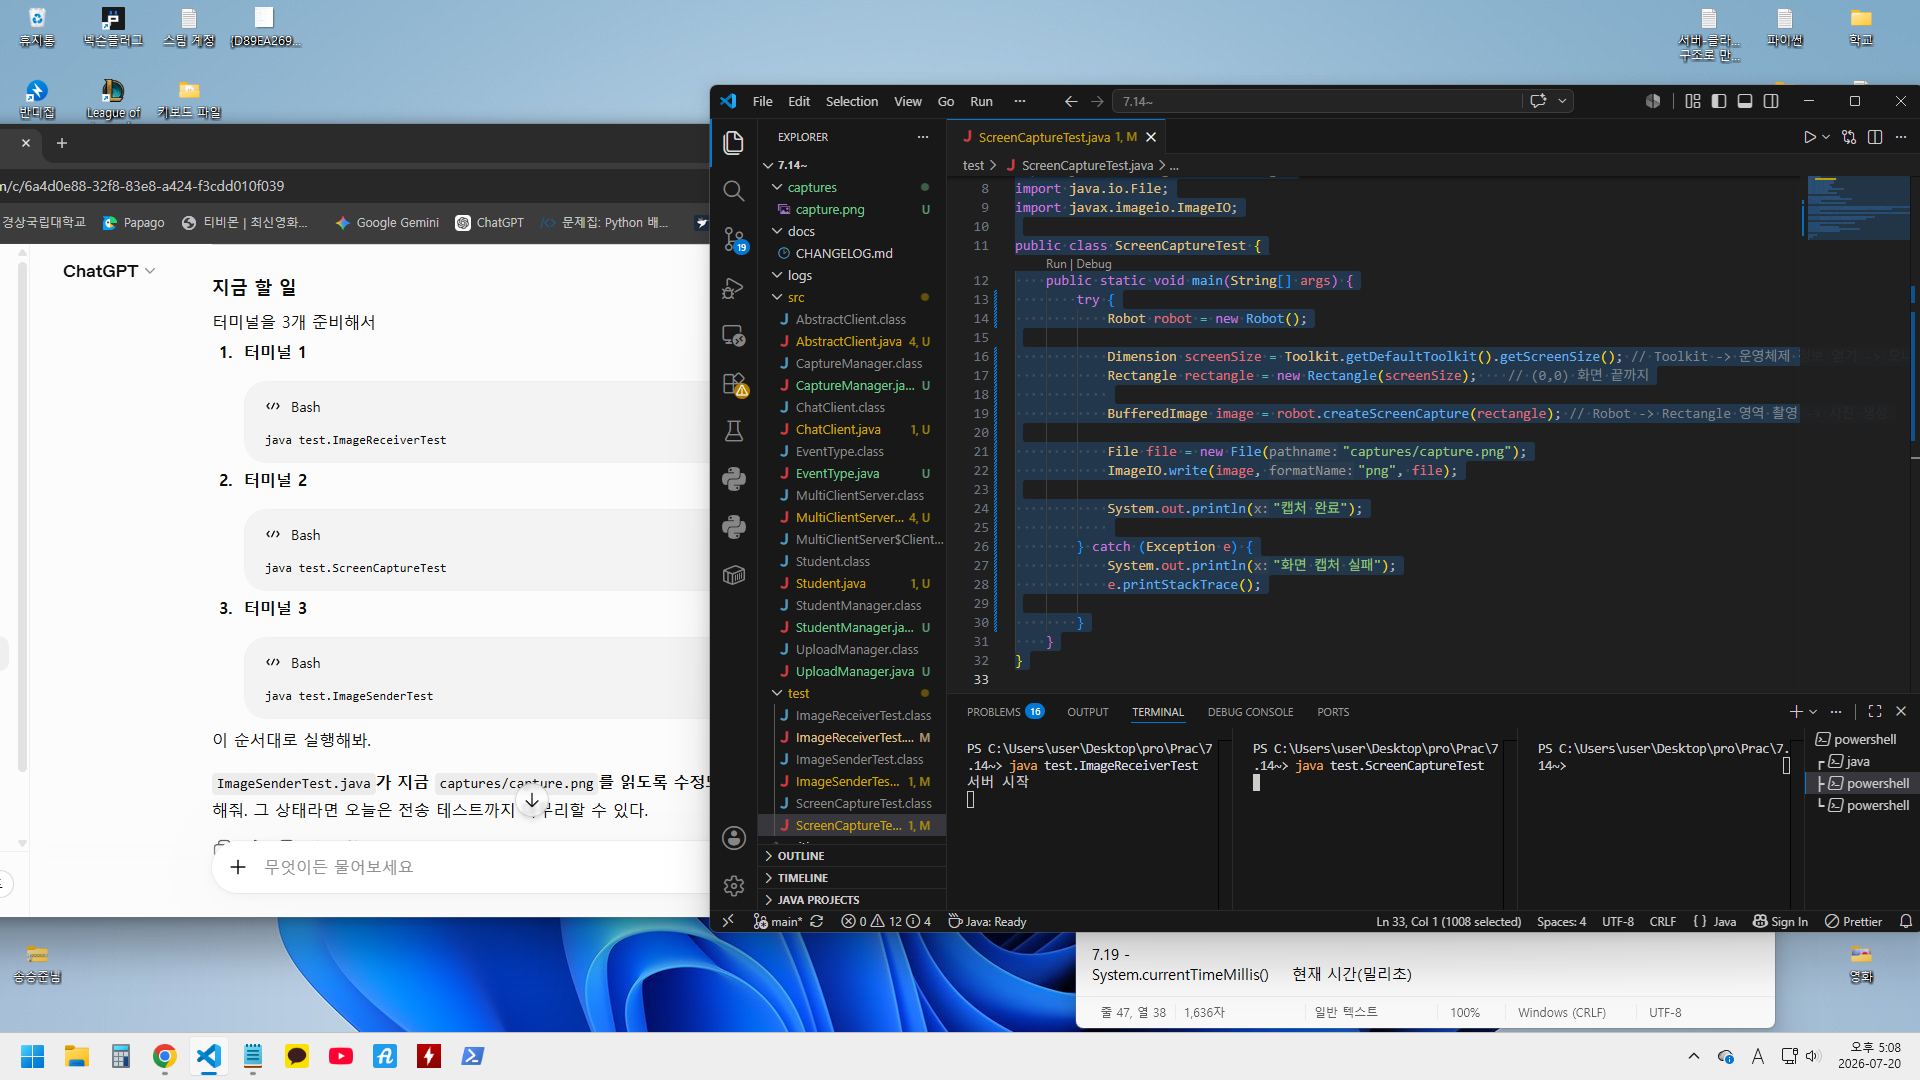
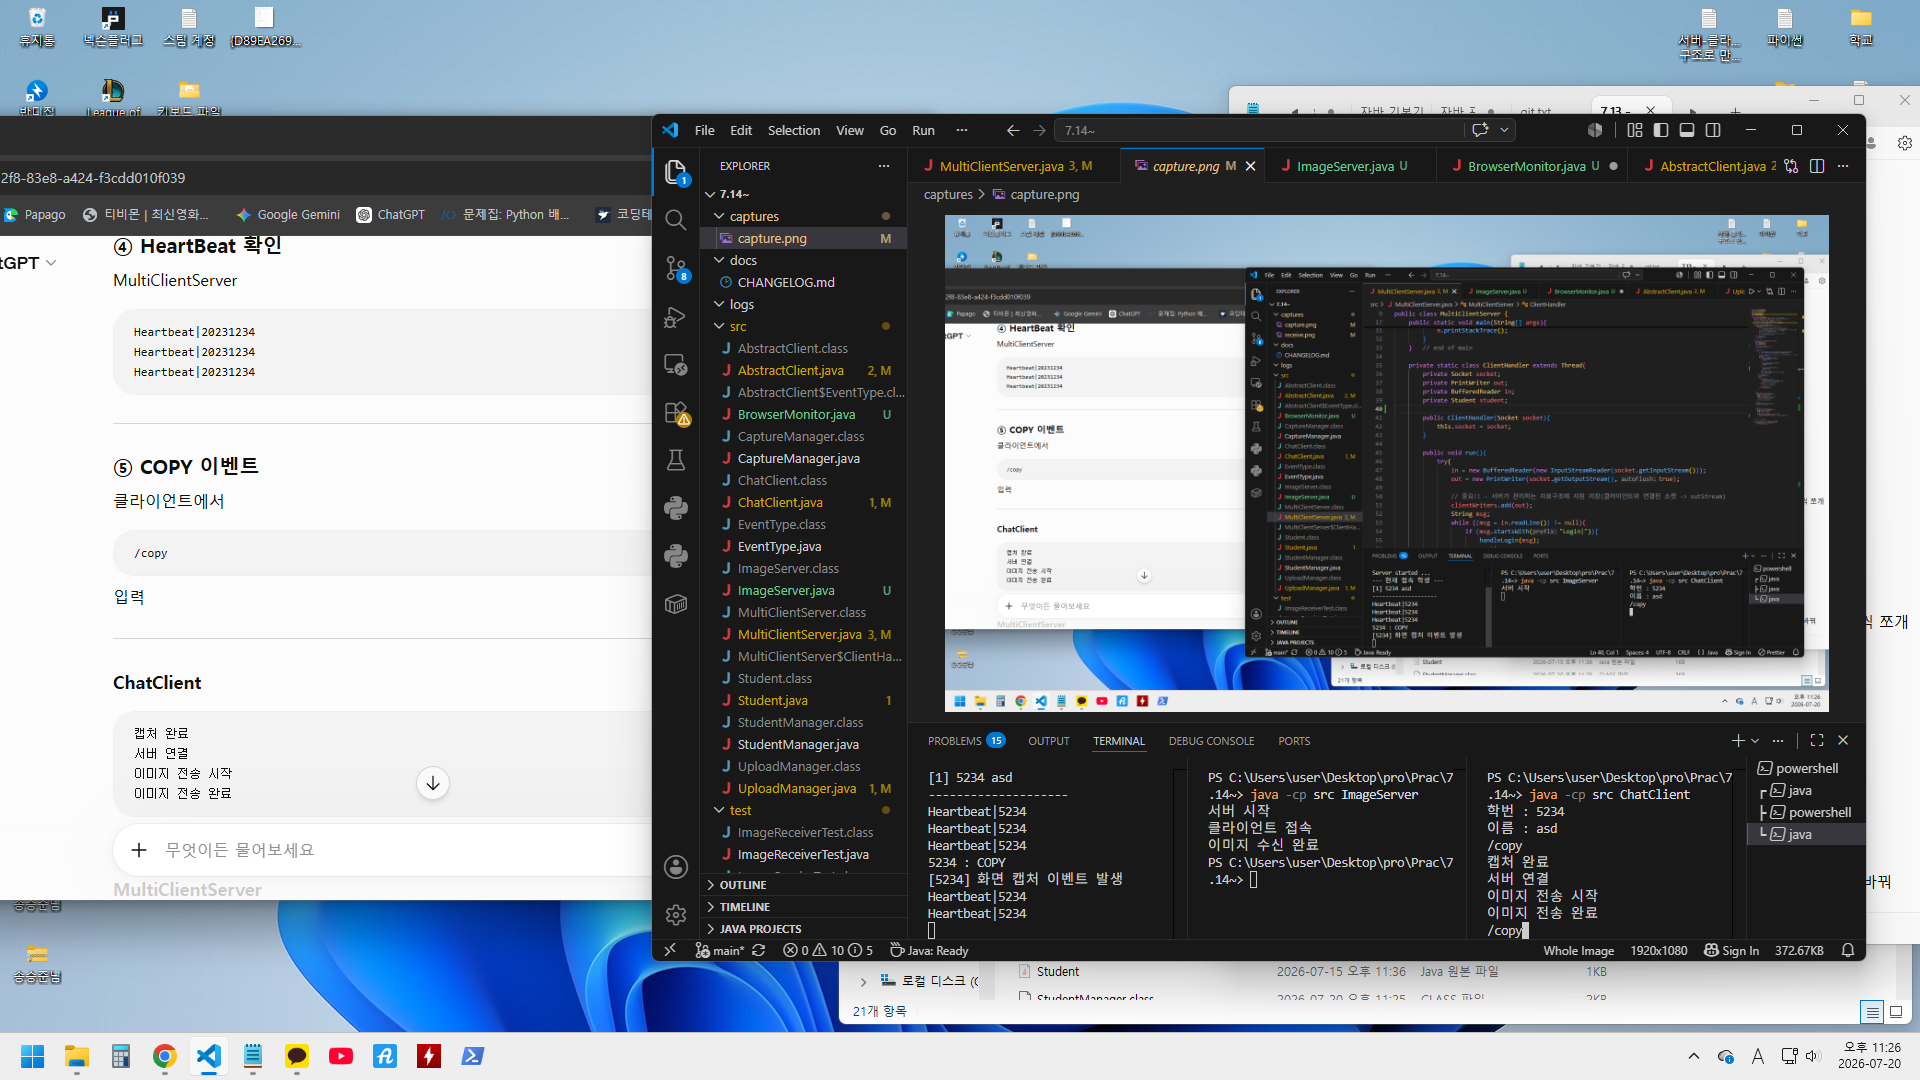
Event, Capture, Upload, ImageServer 구현

diff --git a/src/AbstractClient.java b/src/AbstractClient.java
@@ -1,4 +1,5 @@
 import java.io.BufferedReader;
+import java.io.File;
 import java.io.IOException;
 import java.io.InputStreamReader;
 import java.io.PrintWriter;
@@ -66,8 +67,13 @@ public class AbstractClient {
         return new Thread(() -> {        
             try {
                 String msg;     
-                while ((msg = keyboardReader.readLine()) != null) {     
-                    socketWriter.println("[" + student.getName() + "] : " + msg);       
+                while ((msg = keyboardReader.readLine()) != null) {  
+                    if (msg.equals("/copy")){
+                        sendEvent(EventType.COPY);
+                        continue;
+                    }   
+
+                    socketWriter.println("[" + student.getName() + "] : " + msg );
                 }
             } catch (IOException e){
                 e.printStackTrace();       
@@ -95,7 +101,7 @@ public class AbstractClient {
                 while (true) {
 
                     socketWriter.println(
-                        "HEARTBEAT|" + student.getStudentId()
+                        "Heartbeat|" + student.getStudentId()
                     );
 
                     Thread.sleep(5000);
@@ -126,17 +132,30 @@ public class AbstractClient {
         socketWriter.println(loginMessage);     
     }
 
-    private void sendLoginMesssage(){
-        socketWriter.println(("Login|" + student.getStudentId() + "|" + student.getName()));
+    public void sendEvent(EventType eventType){
+        String message = 
+                "Event|" +
+                student.getStudentId() +
+                "|" +
+                eventType;
+
+        socketWriter.println(message);
+
+        // COPY 이벤트면 즉시 캡처 후 업로드
+        if (eventType == EventType.COPY){
+            CaptureManager captureManager = new CaptureManager();
+            File image = captureManager.capture();
+            if (image != null){
+                UploadManager uploadManager = new UploadManager();
+                uploadManager.upload(student, image);
+            }
+        }
     }
 
-    private void sendEvent(String event){
-        socketWriter.println(
-            "Event|"
-            + student.getStudentId()
-            + "|"
-            + event
-        );
+    public enum EventType{
+        COPY,
+        AI_SITE,
+        SCREEN_CAPTURE
     }
 
 }

diff --git a/src/ImageServer.java b/src/ImageServer.java
@@ -1,0 +1,35 @@
+import java.io.FileOutputStream;
+import java.io.IOException;
+import java.io.InputStream;
+import java.net.ServerSocket;
+import java.net.Socket;
+
+public class ImageServer {
+    public static void main(String[] args) {
+        try {
+            ServerSocket serverSocket = new ServerSocket(9999);     // 서버 생성
+            System.out.println("서버 시작");
+
+            Socket socket = serverSocket.accept();                       // 클라이언트 접속
+            System.out.println("클라이언트 접속");
+
+            InputStream inputStream = socket.getInputStream();  // 소켓에서 데이터를 읽는다.
+            FileOutputStream fileOutputStream = new FileOutputStream("captures/receive.png");    // 파일 생성
+            byte[] buffer = new byte[4096];         // 4096Byte씩 쪼개 읽음
+            int length;     // 읽은 크기 저장
+            while((length = inputStream.read(buffer)) != -1){   // 더 이상 읽을 게 없을 때까지 반복
+                fileOutputStream.write(buffer, 0, length);  // Socket -> buffer -> receive.png 계속 반복
+            }
+            System.out.println("이미지 수신 완료");
+
+            fileOutputStream.close();
+            inputStream.close();
+            socket.close();
+            serverSocket.close();
+            
+        } catch (IOException e) {
+            // TODO Auto-generated catch block
+            e.printStackTrace();
+        }
+    }
+}

diff --git a/src/UploadManager.java b/src/UploadManager.java
@@ -1,3 +1,4 @@
+import java.io.DataOutputStream;
 import java.io.File;
 import java.io.FileInputStream;
 import java.io.IOException;
@@ -5,27 +6,33 @@ import java.io.OutputStream;
 import java.net.Socket;
 
 public class UploadManager {
-    public void upload(File imageFile){
+    public void upload(Student student, File imageFile){
             try {
                 Socket socket = new Socket("localhost", 9999);
                 System.out.println("서버 연결");
-
-                OutputStream outputStream = socket.getOutputStream();   // OutputStream 얻기
-                System.out.println("이미지 전송 시작");
                 
-                FileInputStream fileInputStream = new FileInputStream(imageFile);    // capture.png -> 읽기 시작
+                
+                DataOutputStream dos = new DataOutputStream(socket.getOutputStream());
+                System.out.println("이미지 전송 시작");
 
+                dos.writeUTF("IMAGE");
+                dos.writeUTF(student.getStudentId());
+                dos.writeUTF(student.getName());
+                dos.writeLong(imageFile.length());
+
+                FileInputStream fileInputStream = new FileInputStream(imageFile);    // capture.png -> 읽기 시작
+                
                 byte[] buffer = new byte[4096];
                 int length;
                 while((length = fileInputStream.read(buffer)) != -1){
-                    outputStream.write(buffer, 0, length);              // 파일 -> Socket이다.
+                    dos.write(buffer, 0, length);              // 파일 -> Socket이다.
                 }
 
-                outputStream.flush();   // 남아있는 데이터를 전부 보내라
+                dos.flush();   // 남아있는 데이터를 전부 보내라
                 System.out.println("이미지 전송 완료");
 
                 fileInputStream.close();
-                outputStream.close();
+                dos.close();
                 socket.close();
             } catch (IOException e) {
                 // TODO Auto-generated catch block

diff --git a/src/MultiClientServer.java b/src/MultiClientServer.java
@@ -37,6 +37,7 @@ public class MultiClientServer {
         private PrintWriter out;
         private BufferedReader in;
         private Student student;
+        
         public ClientHandler(Socket socket){    
             this.socket = socket;
         }
@@ -55,8 +56,13 @@ public class MultiClientServer {
                         continue;
                     }
 
-                    if (msg.startsWith("Heatbeat|")){
+                    if (msg.startsWith("Heartbeat|")){
                         handleHeartbeat(msg);
+                        continue;
+                    }
+
+                    if (msg.startsWith("Event|")){
+                        handleEvent(msg);
                         continue;
                     }
                     System.out.println(msg);        
@@ -106,6 +112,9 @@ public class MultiClientServer {
             String eventType = data[2];
 
             System.out.println(studentId + " : " + eventType);
+            if (eventType.equals("COPY")){
+                System.out.println("[" + studentId + "] 화면 캡처 이벤트 발생");
+            }
         }
     
     }   // end of ClientHandler

diff --git a/src/ChatClient.java b/src/ChatClient.java
@@ -25,5 +25,7 @@ public class ChatClient extends AbstractClient {
 
         ChatClient chatClient = new ChatClient(student);
         chatClient.run();
+
+        chatClient.sendEvent(EventType.COPY);
     }
 }